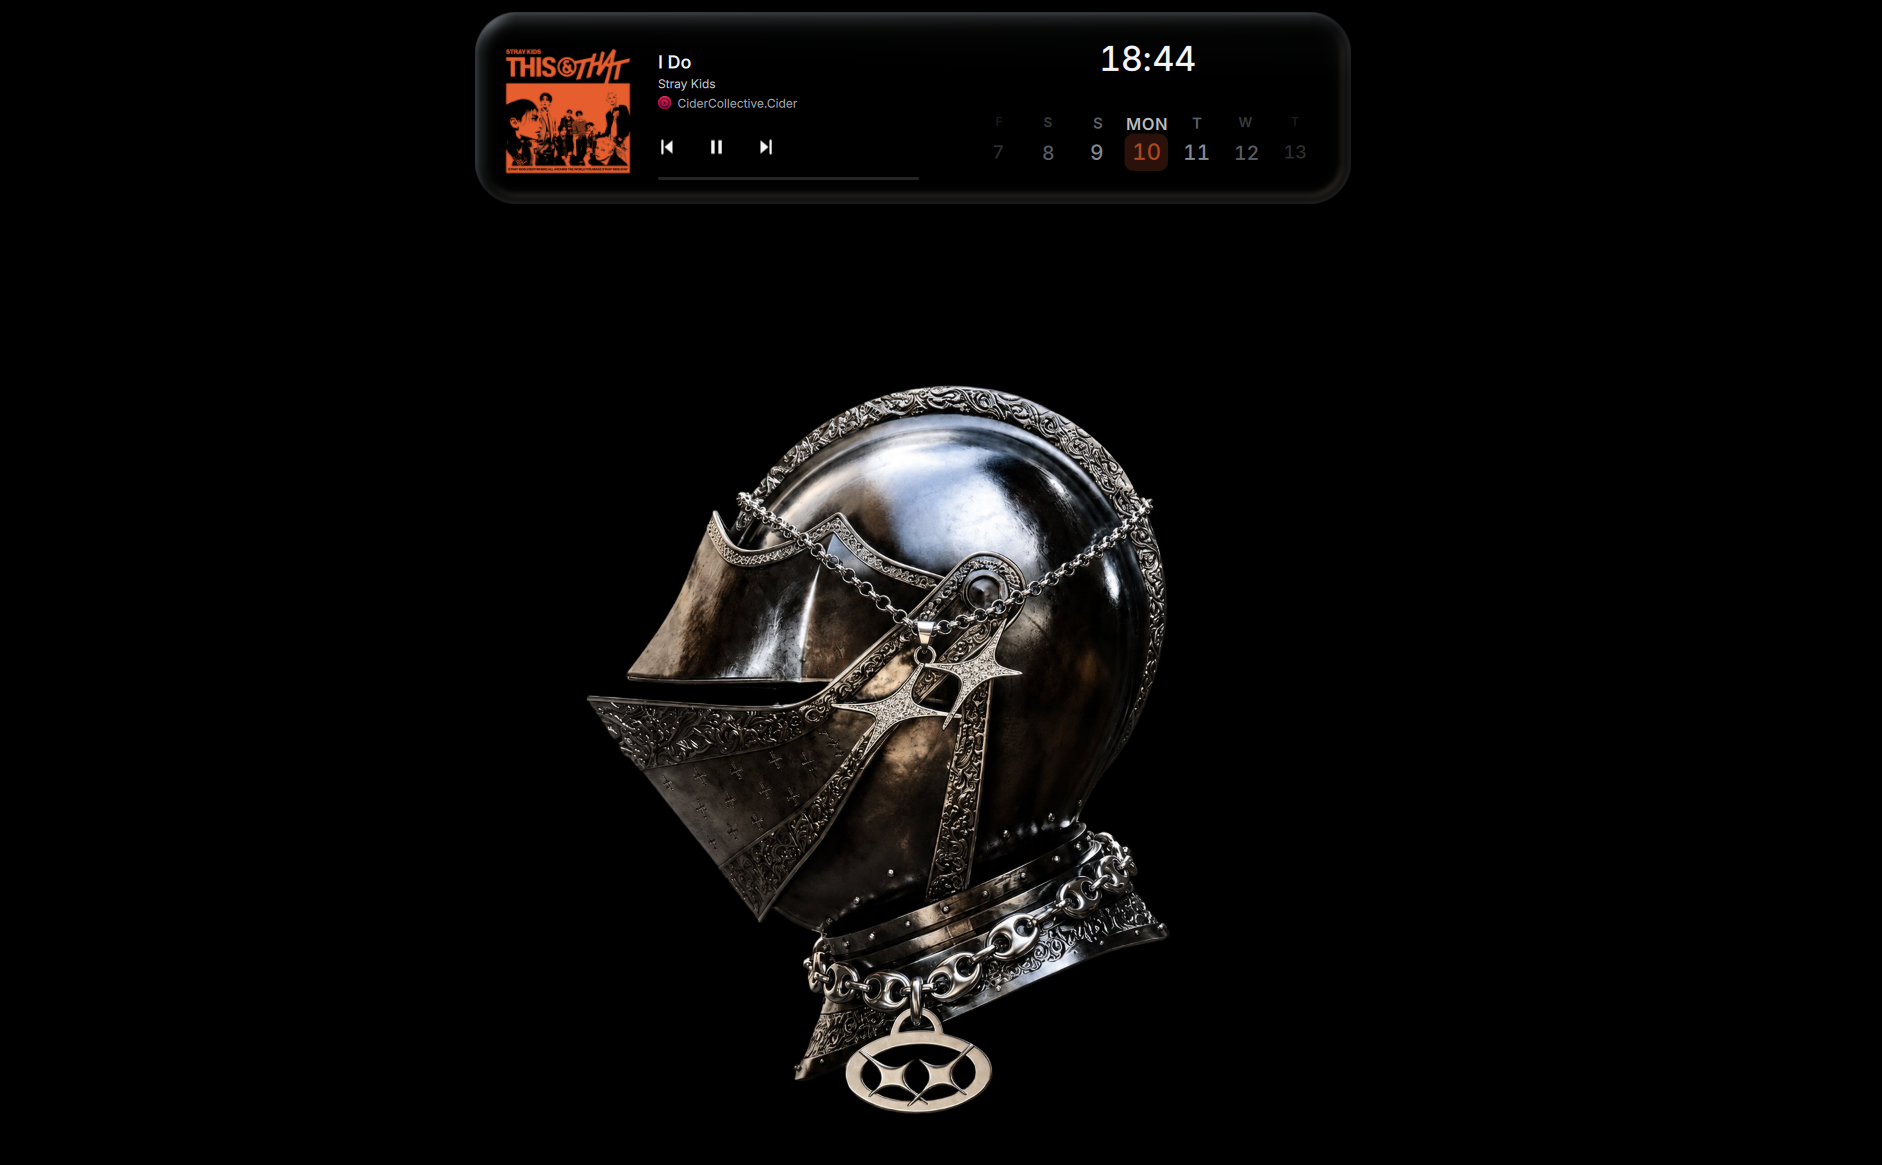
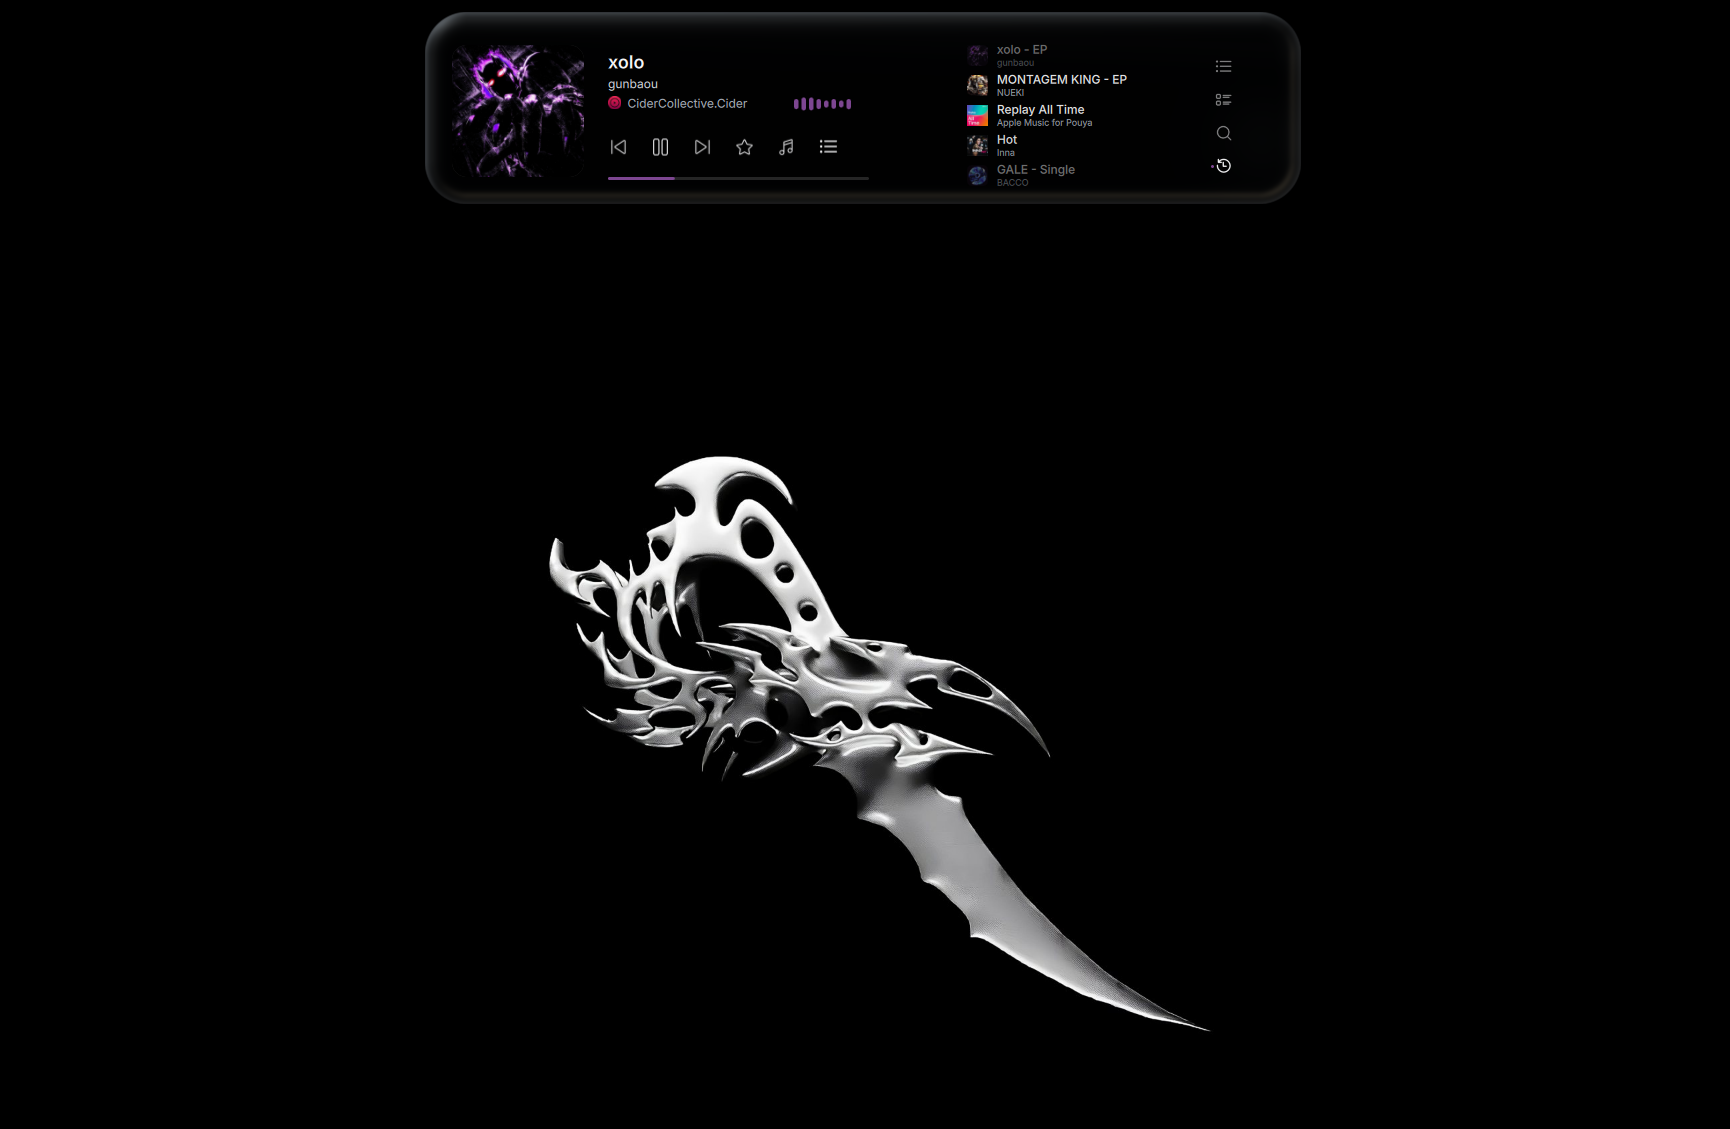
Update README hero image

diff --git a/README.md b/README.md
@@ -1,7 +1,7 @@
 <p align="center">
   <img
     src="docs/ava-hero.png"
-    alt="Ava expanded with live media controls and calendar on Windows 11"
+    alt="Ava media controls above a monochrome abstract sculpture"
     width="100%">
 </p>
 
